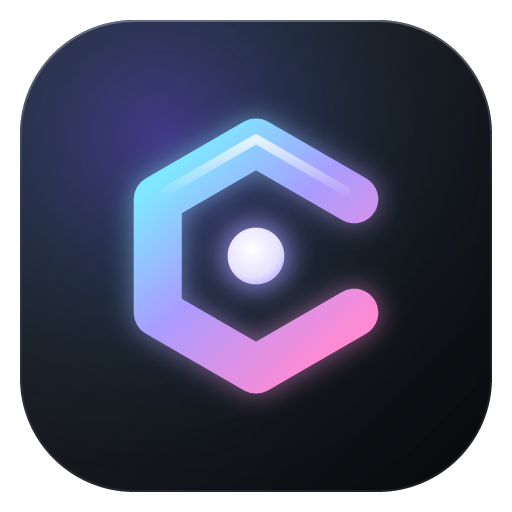
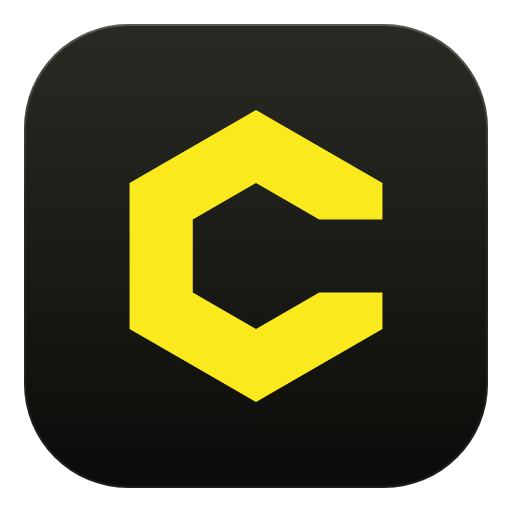
feat(brand): new yellow Carbon mark, wordmark, lockups and brand guide
The mark is a pointy-top carbon ring opened into a C, flat and one colour, on a grid of eighths. Carbon Yellow #FAE91D (oklch 92% 0.19 104) pairs with warm graphite neutrals and an ink #10100D that is the only text colour on yellow. Rejected directions live in brand/explorations.

diff --git a/brand/BRAND.md b/brand/BRAND.md
@@ -1,0 +1,166 @@
+# Carbon brand
+
+Carbon's identity is one yellow mark on graphite. It's a carbon ring that opens into a C. The colour is loud and the shapes are quiet.
+
+## The mark
+
+A pointy-top hexagon (the six-atom carbon ring) with its right edge removed, so the ring reads as a **C**.
+
+- **Construction.** The mark is drawn on a grid of eighths of its height *H*. Its width is 0.866 *H*.
+  - Outer hexagon: *H* tall.
+  - Counter (inner hexagon): *H*/2 tall.
+  - Aperture: *H*/4 tall, cut with horizontal edges.
+  - Right-edge stubs: *H*/8 each.
+  - The wall has the same thickness all the way round.
+- **Forms.** It is always flat and one colour. There are no gradients, glows or outlines, except the tray icon's keyline (see Tray).
+- **Why this one.** We explored six directions, all in `explorations/`; `explorations-sheet.png` compares them at 16 to 200 px. This was the only one that read as a C in yellow, ink and black at 16 px.
+  - `b-cell-flat`, the flat-top hexagon, looked aggressive, like a gaming brand.
+  - `c-notch` lost the C at small sizes.
+  - `d-groove` was a generic ring C (Coinbase territory).
+  - `e-lattice` broke up below 32 px and drifted toward Bumble's honeycomb.
+  - `f-orbit` was the old idea flattened. Its dot disappeared at 16 px and read as ©.
+  - `v1-liquid-ring` is the retired mark: a thin glass stroke with a pearl core in a cyan, violet and pink gradient.
+
+| File | Use |
+| --- | --- |
+| `carbon-mark.svg` | Yellow mark, for dark surfaces |
+| `carbon-mark-black.svg` / `carbon-mark-white.svg` | One-colour versions |
+| `carbon-wordmark-{black,white,paper}.svg` | Wordmark alone |
+| `carbon-lockup.svg` | Yellow mark with a paper wordmark, for dark surfaces |
+| `carbon-lockup-on-yellow.svg` | All ink, for yellow surfaces |
+| `carbon-lockup-{black,white}.svg` | One-colour lockups |
+| `carbon-icon.svg` (+ `carbon-icon-512.png`) | App icon master: graphite tile, fed to `npx tauri icon` |
+| `carbon-icon-mark.svg` | App-icon mark on transparent, for dark surfaces only |
+| `tray/carbon-tray-{16,20,24,32}.svg` | Tray icons, pixel-fitted with an ink keyline |
+| `favicon.svg` | Browser tab icon: a compact tile |
+
+## Wordmark
+
+The wordmark is **carbon**, always lowercase. It is custom-drawn, so it needs no font file.
+
+- It is a geometric monoline. The bowls are true circles, the stroke is 25 % of the x-height, and the ascender is 1.4 × the x-height.
+- The c borrows the mark's horizontal cuts, which ties the two together.
+- The round letters contrast with the angular mark.
+- Don't retype it in a font, and don't track it out.
+
+**Horizontal lockup**
+
+- The mark is 1.12 × the ascender height.
+- It is centred on the ascender-to-baseline block.
+- The gap between mark and wordmark is half the mark's width.
+- There is no vertical lockup. When the space is square, use the mark alone.
+
+## Colour
+
+| Role | Name | sRGB | oklch |
+| --- | --- | --- | --- |
+| Primary | **Carbon Yellow** | `#FAE91D` | `oklch(92% 0.19 104)` |
+| Pressed or hover on yellow | Yellow Deep | `#E4D530` | `oklch(86% 0.17 104)` |
+| Text on yellow, darkest surface | **Ink** | `#10100D` | `oklch(17% 0.006 107)` |
+| Page background | Graphite 950 | `#090907` | `oklch(14% 0.005 107)` |
+| Surface | Graphite 900 | `#181714` | `oklch(20.5% 0.006 92)` |
+| Raised surface | Graphite 800 | `#22221E` | `oklch(25% 0.007 107)` |
+| Lines, plates | Graphite 700 | `#33332E` | `oklch(32% 0.009 107)` |
+| Secondary text on light | Graphite 500 | `#5E5E58` | `oklch(48% 0.009 107)` |
+| Muted text on dark | Graphite 300 | `#9F9F96` | `oklch(70% 0.013 107)` |
+| Light text on dark, light surface | **Paper** | `#EFEFE6` | `oklch(95% 0.012 107)` |
+
+The neutrals carry a trace of the yellow's hue (about 104°), so graphite and yellow read as one family.
+
+There is no secondary brand colour. Status colours (success, warning, error) are functional only. Warning is orange (`#F99549`), so it never looks like the brand yellow.
+
+**Contrast (WCAG 2.x)**
+
+| Pair | Ratio | Verdict |
+| --- | --- | --- |
+| Ink on Carbon Yellow | 15.2 : 1 | AAA, the only text colour on yellow |
+| Ink on Yellow Deep | 12.6 : 1 | AAA |
+| Carbon Yellow on Graphite 950 | 15.9 : 1 | AAA |
+| Carbon Yellow on Graphite 700 | 10.1 : 1 | AAA |
+| Paper on Graphite 950 | 17.2 : 1 | AAA |
+| Graphite 300 on Graphite 950 | 7.5 : 1 | AAA |
+| Graphite 300 on Graphite 800 | 6.0 : 1 | AA |
+| Graphite 500 on Paper | 5.6 : 1 | AA |
+| Ink on Paper | 16.5 : 1 | AAA |
+| Carbon Yellow on Paper | 1.1 : 1 | **Never** |
+| Carbon Yellow on white | 1.25 : 1 | **Never** |
+| White on Carbon Yellow | 1.25 : 1 | **Never** |
+
+**Rules**
+
+1. Text on yellow is always Ink. Never use white or grey on yellow.
+2. Yellow is never text, an icon or a focus ring on light backgrounds. On Paper or white, use Ink.
+3. Use yellow as a fill (buttons, the mark, active states) or as text on Graphite 700 and darker.
+4. Keep yellow scarce. One yellow call to action per view. Everything else is graphite and paper.
+
+## Clear space and minimum size
+
+**Clear space**
+
+- Keep **X = *H*/4** clear on every side of the mark and the lockup. *H* is the mark's height, so X equals the height of the C's aperture.
+- No text, edges or other logos may enter that space.
+
+**Minimum sizes**
+
+| Asset | Screen | Print |
+| --- | --- | --- |
+| Mark | 16 px tall | 5 mm |
+| Lockup | 96 px wide | 25 mm |
+| Wordmark alone | 64 px wide | 18 mm |
+
+Below 32 px on screen, use the pixel-fitted tray files rather than scaling the master.
+
+## App icon, tray, favicon
+
+**App icon**
+
+- The icon is a graphite plate (`#2A2A25` to `#0B0B09`, with a faint top light and a hairline rim) carrying the yellow mark.
+- The mark is 57 % of the artboard height. The plate is inset 48 of 1024 units, with a corner radius of 208.
+- **Never put the mark on a yellow plate.** A yellow rounded square with a dark glyph reads as Snapchat.
+- To regenerate the app icons, run `npx tauri icon <1024 px render of carbon-icon.svg>`, then delete `android/` and `ios/`.
+
+**Tray**
+
+- The tray icon is the yellow mark with an ink keyline: 1 px at 16, 20 and 24 px, and 2 px at 32 px.
+- The keyline lets it hold on both the light (`#F3F3F3`) and dark (`#202020`) taskbar.
+- Its straight edges sit on whole pixels.
+- Carbon picks the PNG that matches the display scale (100, 125, 150 and 200 %).
+
+**Favicon and touch icon**
+
+- The favicon is a 64-unit tile with a larger mark, so it holds at 16 px in light and dark tab strips.
+- The apple-touch-icon is a full-bleed opaque square, because iOS applies its own mask.
+
+## In the product
+
+- **Accent.** Carbon Yellow is the app's default accent (`yellow`) and the website's accent.
+  - The other accent presets remain the user's choice.
+  - The logo stays Carbon Yellow whichever accent is picked.
+  - Buttons filled with the accent always use Ink text.
+- **Spotify and YouTube marks.** When Carbon shows Spotify or YouTube content, use their marks as their own guidelines require. Never blend them into Carbon's mark.
+
+## Do
+
+- Use the supplied files.
+- Put the yellow mark on graphite or Ink, and the Ink mark on yellow.
+- Use black or white versions over photos and on single-colour print.
+- Scale proportionally, and respect X and the minimum sizes.
+
+## Don't
+
+- Don't rotate, skew, stretch, outline, bevel, add a drop shadow or add a gradient to the mark.
+- Don't recolour it outside the palette, or put two colours inside it.
+- Don't add the old pearl dot.
+- Don't place yellow on white, on Paper or on busy photos.
+- Don't put the mark in a yellow square or circle.
+- Don't build new shapes from the mark, or use it as a letter inside words.
+- Don't place the lockup's parts in a different arrangement.
+- Don't drift toward these neighbours' marks:
+  - Snapchat's ghost and yellow square
+  - YouTube's play triangle
+  - Spotify's three arcs
+  - Apple Music's note
+  - SoundCloud's cloud and bars
+  - Deezer's equaliser bars
+  - Bandcamp's parallelogram
+  - Bumble's honeycomb
